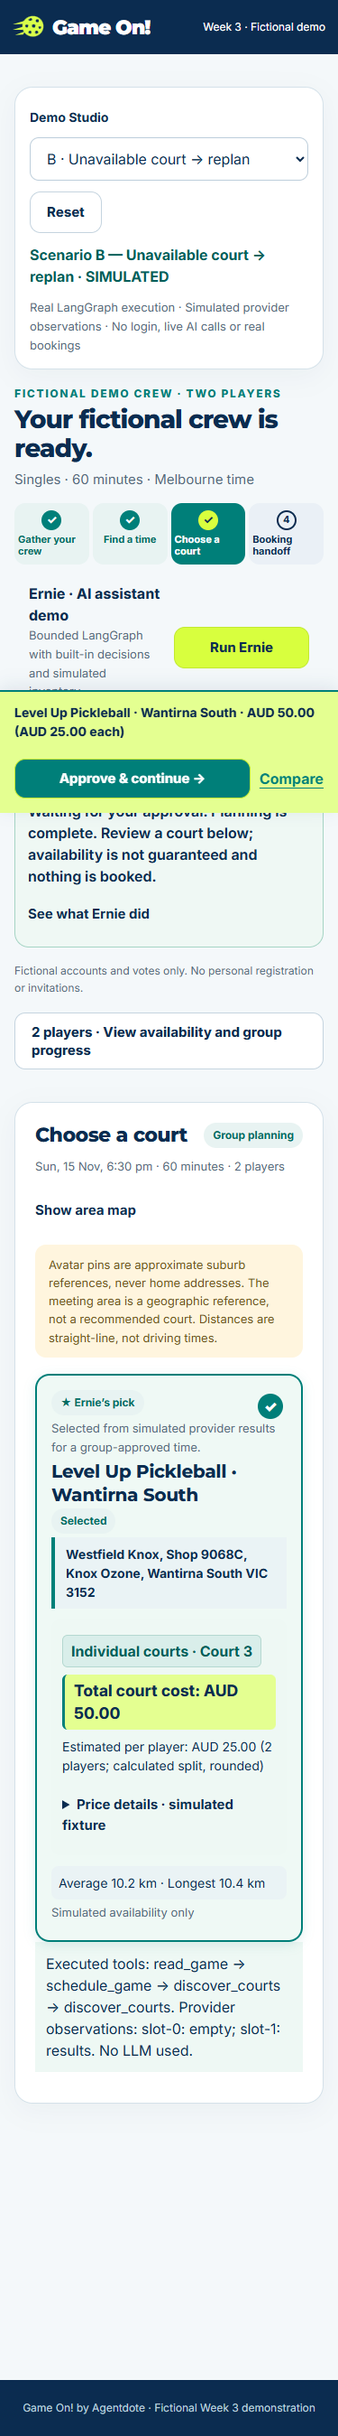
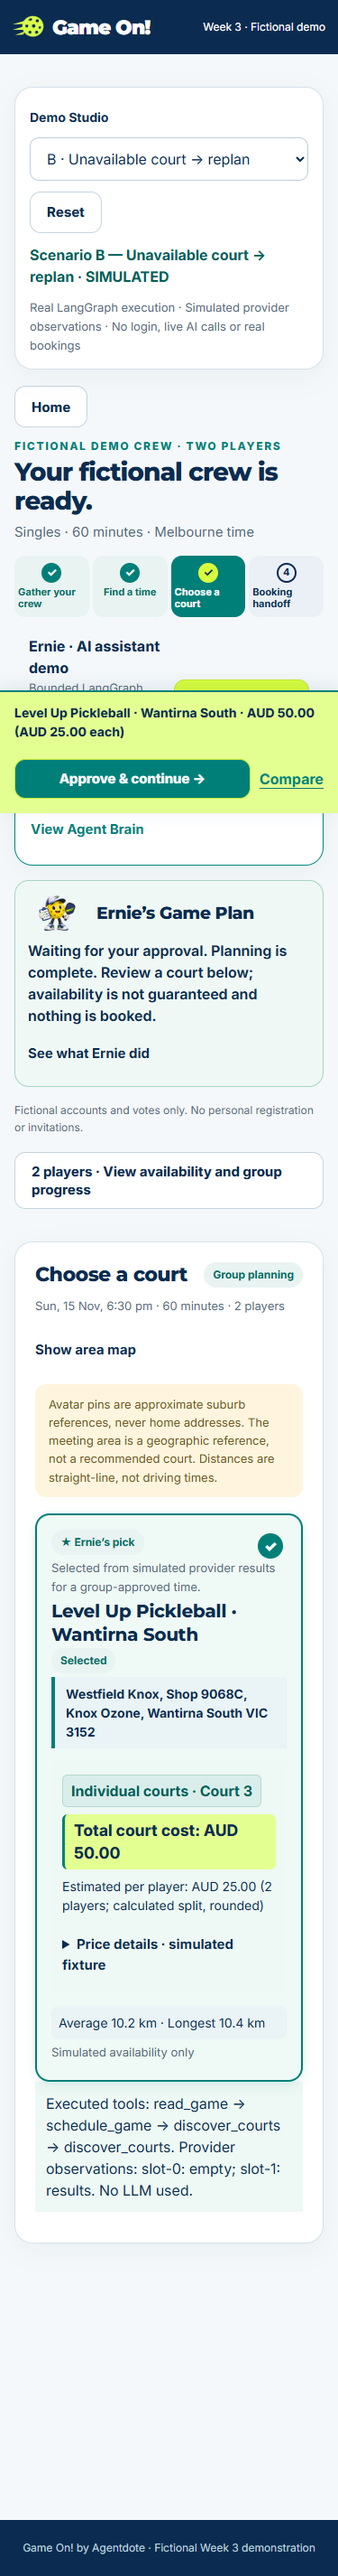
Add trace-driven Agent Brain replay and demo journey

diff --git a/web/demo.js b/web/demo.js
@@ -1,5 +1,5 @@
 const $=s=>document.querySelector(s);
-let currentGame={players:[],min_players:2},currentReady=true,selectedHandoff=null,generation=0,lastResult=null;
+let currentGame={players:[],min_players:2},currentReady=true,selectedHandoff=null,generation=0,lastResult=null,setupSlots=[];
 const Ernie={planAllowed:true,hasRecommendation:false,currentRevision:'A'};
 const labels={A:'Successful recommendation',B:'Unavailable court → replan',C:'No suitable alternatives → human help'};
 const timeLabel=s=>new Intl.DateTimeFormat('en-AU',{timeZone:'Australia/Melbourne',weekday:'short',day:'numeric',month:'short',hour:'numeric',minute:'2-digit'}).format(new Date(s));
@@ -7,21 +7,21 @@ function clearHandoff(){selectedHandoff=null;$('#handoff-panel').hidden=true;}
 function text(id,value){$(id).textContent=value;}
 async function api(path,body){const r=await fetch(path,{method:'POST',headers:{'Content-Type':'application/json'},body:JSON.stringify(body)});if(!r.ok)throw Error('Demo could not complete this action. Reset or try again.');return r.json();}
 function reset(){
- generation++;lastResult=null;clearHandoff();Ernie.hasRecommendation=false;Ernie.currentRevision=$('#scenario').value;
+ AgentBrain.clear();generation++;lastResult=null;clearHandoff();Ernie.hasRecommendation=false;Ernie.currentRevision=$('#scenario').value;
  CourtFlow.barObserver?.disconnect();CourtFlow.bar?.remove();CourtFlow.dialog?.remove();ErnieGamePlan.clear();
  VenueView.dispose($('#group-map'));$('#group-map').replaceChildren();$('#planning-output').replaceChildren();
  $('#run-demo').disabled=false;text('#demo-error','');text('#scenario-label',`Scenario ${$('#scenario').value} — ${labels[$('#scenario').value]} · SIMULATED`);
  text('#game-heading','Your fictional crew is ready.');text('#game-eyebrow','Fictional Demo Crew · Two players');
  currentGame.players=[{id:'alex',name:'Alex',suburb:'Clayton',avatar_id:'ace',is_organiser:true,voted:true},{id:'sam',name:'Sam',suburb:'Springvale',avatar_id:'sky',voted:true}];
  GameOnUI.renderCourt($('#session-court'),currentGame.players,{game:true,ready:true,minPlayers:2});
- text('#rankings','Alex and Sam have both approved two future evening times. Run Ernie to see the exact dates.');
+ text('#rankings',setupSlots.length?setupSlots.map(s=>timeLabel(s.starts_at)+' - both fictional players available').join(' / '):'Alex and Sam have both approved two future evening times. Run Ernie to see the exact dates.');
  text('#player-count','2 fictional players');text('#status','All fictional votes submitted');text('#game-duration-label','Singles · 60 minutes · Melbourne time');
- history.replaceState(null,'','/?step=court');CourtFlow.update();
+ history.replaceState(null,'','/?step=home');CourtFlow.update();
 }
 async function plan(){
- const g=++generation,scenario=$('#scenario').value;$('#run-demo').disabled=true;text('#demo-error','');clearHandoff();Ernie.hasRecommendation=false;CourtFlow.bar?.remove();CourtFlow.dialog?.remove();ErnieGamePlan.start();
+ const g=++generation,scenario=$('#scenario').value;$('#run-demo').disabled=true;text('#demo-error','');clearHandoff();Ernie.hasRecommendation=false;CourtFlow.bar?.remove();CourtFlow.dialog?.remove();AgentBrain.clear();ErnieGamePlan.start();
  try{const result=await api('/api/demo/plan',{scenario});if(g!==generation)return;
- lastResult=result;Ernie.currentRevision=scenario;ErnieGamePlan.finish(result);Ernie.hasRecommendation=!!result.recommendations.length;
+ AgentBrain.load(result);lastResult=result;Ernie.currentRevision=scenario;ErnieGamePlan.finish(result);Ernie.hasRecommendation=!!result.recommendations.length;
  $('#planning-output').replaceChildren();CourtFlow.bar?.remove();CourtFlow.dialog?.remove();
  text('#rankings',result.slots.map(s=>`${timeLabel(s.starts_at)} — both players available`).join(' / '));
  if(result.recommendations.length){
@@ -47,8 +47,14 @@ $('#join-panel').remove();$('#vote-panel').remove();$('.game-share').remove();$(
 $('#planning-entry').innerHTML='<div><strong>Ernie · AI assistant demo</strong><p class="small">Bounded LangGraph with built-in decisions and simulated inventory.</p><p id="demo-error" role="alert"></p></div><button id="run-demo" class="primary" type="button">Run Ernie</button>';
 text('#share-note','Fictional accounts and votes only. No personal registration or invitations.');
 text('#next-step','These are fixed fictional votes. Reset restores the demonstration; no shared data is changed.');
-CourtFlow.init();ErnieGamePlan.init();$('#run-demo').onclick=plan;$('#reset').onclick=reset;$('#scenario').onchange=reset;
+CourtFlow.init();ErnieGamePlan.init();AgentBrain.init();$('#run-demo').onclick=plan;$('#reset').onclick=reset;$('#scenario').onchange=reset;
 $('#handoff-copy').onclick=copyBrief;$('#handoff-calendar').onclick=downloadCalendar;
 $('#handoff-open').onclick=()=>{if(!selectedHandoff)return;const url=selectedHandoff.venue.booking_url||selectedHandoff.venue.website_url;window.open(url,'_blank','noopener,noreferrer');$('#handoff-next').hidden=false;text('#handoff-next-title','Demo handoff complete — nothing booked');text('#handoff-next-description','The official website opens without prefilled court/time. Stop before any hold, reservation or payment during this demonstration.');};
 $('#handoff-next a').onclick=e=>{e.preventDefault();CourtFlow.go('court');};
 reset();
+
+$('#demo-start').onclick=()=>CourtFlow.go('crew');
+$('#demo-home-button').onclick=()=>CourtFlow.go('home');
+$('#demo-next').onclick=()=>CourtFlow.go(CourtFlow.step==='crew'?'time':'court');
+
+fetch('/api/demo/setup').then(r=>{if(!r.ok)throw Error();return r.json();}).then(data=>{setupSlots=data.slots;if(!lastResult)text('#rankings',data.slots.map(s=>timeLabel(s.starts_at)+' - both fictional players available').join(' / '));}).catch(()=>{});

diff --git a/web/agent-brain.js b/web/agent-brain.js
@@ -1,0 +1,44 @@
+/* Presentation of recorded evidence only. No network calls or plan mutations. */
+window.AgentBrain = {
+  init() {
+    const panel=document.createElement('details');panel.id='agent-brain';panel.className='panel agent-brain';panel.hidden=true;
+    panel.innerHTML=`<summary>View Agent Brain</summary><h2>Ernie's Agent Brain</h2>
+      <p><strong>Execution replay</strong> · Deterministic decisions · Simulated provider data</p>
+      <p class="small">Recorded events from the completed LangGraph run. Playback speed is for presentation, not measured execution time. Approval happens separately.</p>
+      <svg viewBox="0 0 540 240" role="img" aria-label="DECIDE to TOOL to OBSERVE, looping back to DECIDE; DECIDE can also FINISH">
+      <defs><marker id="brain-arrow" markerWidth="8" markerHeight="8" refX="7" refY="4" orient="auto"><path d="M0 0 L8 4 L0 8Z" fill="currentColor"/></marker></defs>
+      <g class="brain-links" fill="none" stroke="currentColor" stroke-width="2" marker-end="url(#brain-arrow)"><path d="M160 60H200"/><path d="M340 60H380"/><path d="M450 90V125H90V90"/><path d="M90 90V180H200"/></g>
+      <text x="270" y="148" text-anchor="middle">Observe → Decide: evaluate evidence</text>
+      <g data-node="DECIDE"><rect x="20" y="30" width="140" height="60" rx="12"/><text x="90" y="66">DECIDE</text></g>
+      <g data-node="TOOL"><rect x="200" y="30" width="140" height="60" rx="12"/><text x="270" y="66">TOOL</text></g>
+      <g data-node="OBSERVE"><rect x="380" y="30" width="140" height="60" rx="12"/><text x="450" y="66">OBSERVE</text></g>
+      <g data-node="FINISH"><rect x="200" y="165" width="140" height="60" rx="12"/><text x="270" y="201">FINISH</text></g></svg>
+      <p id="brain-position" class="small"></p><div id="brain-description" role="status" aria-live="polite"></div>
+      <div class="share-actions"><button id="brain-prev" class="secondary">Previous</button><button id="brain-next" class="secondary">Next</button><button id="brain-play" class="primary">Replay</button><button id="brain-reset" class="secondary">Reset replay</button></div>`;
+    document.querySelector('#planning-entry').after(panel);this.panel=panel;
+    const evidence=document.createElement('p');evidence.id='brain-court-evidence';evidence.className='brain-evidence';evidence.hidden=true;
+    document.querySelector('#planning-output').before(evidence);this.evidence=evidence;
+    document.querySelector('#brain-prev').onclick=()=>this.select(this.index-1);
+    document.querySelector('#brain-next').onclick=()=>this.select(this.index+1);
+    document.querySelector('#brain-reset').onclick=()=>this.select(0);
+    document.querySelector('#brain-play').onclick=()=>{if(this.timer){this.stop();return;}this.select(0);this.timer=setInterval(()=>{if(this.index>=this.events.length-1){this.stop();return;}this.select(this.index+1,false);},1400);document.querySelector('#brain-play').textContent='Pause replay';};
+    panel.addEventListener('toggle',()=>{if(!panel.open)this.stop();});
+  },
+  stop(){clearInterval(this.timer);this.timer=null;if(this.panel)document.querySelector('#brain-play').textContent='Replay';},
+  clear(){this.stop();this.events=[];this.panel.hidden=true;this.panel.open=false;this.evidence.hidden=true;this.evidence.textContent='';},
+  load(result){this.clear();this.events=result.graph_events;this.scenario=result.scenario;this.panel.hidden=false;this.select(0);},
+  select(index,stop=true){
+    if(stop)this.stop();this.index=Math.max(0,Math.min(index,this.events.length-1));const e=this.events[this.index];if(!e)return;
+    this.panel.querySelectorAll('[data-node]').forEach(n=>n.classList.toggle('active',n.dataset.node===e.node));
+    document.querySelector('#brain-position').textContent=`Scenario ${this.scenario} · Event ${e.sequence} of ${this.events.length} · Iteration ${e.iteration} · ${e.event_id} · Run ${e.run_id}`;
+    const o=e.observation;let description=`${e.node}${e.tool?' · '+e.tool:''}`;
+    if(e.decision_source)description+=` · ${e.decision_source} decision`;
+    if(e.reason_code)description+=` · ${e.reason_code.replaceAll('_',' ')}`;
+    if(o)description+=` · ${o.status}${o.court_count!==undefined?`: ${o.court_count} simulated courts (${o.slot_id==='slot-0'?'first':'second'} agreed time)`:o.player_count!==undefined?`: ${o.player_count} fictional players, ${o.slot_count} times`:o.eligible_time_count!==undefined?`: ${o.eligible_time_count} eligible times`:''}`;
+    if(e.terminal_outcome)description+=` · ${e.terminal_outcome.action} · ${e.terminal_outcome.outcome.replaceAll('_',' ')}`;
+    document.querySelector('#brain-description').textContent=description;
+    this.evidence.hidden=!o?.slot_id;
+    this.evidence.textContent=o?.slot_id?(o.status==='empty'&&o.slot_id==='slot-0'?'0 available courts for the first agreed time':`${o.court_count??0} available simulated courts for the ${o.slot_id==='slot-0'?'first':'second'} agreed time`)+'. Execution replay · Simulated provider data. The completed plan below is unchanged.':'';
+    document.querySelector('#brain-prev').disabled=this.index===0;document.querySelector('#brain-next').disabled=this.index===this.events.length-1;
+  }
+};

diff --git a/web/index.html b/web/index.html
@@ -1,4 +1,4 @@
-<!doctype html><html lang="en-AU"><head><meta charset="utf-8"><meta name="viewport" content="width=device-width, initial-scale=1"><title>Game On! &middot; Week 3 Demo</title><link rel="stylesheet" href="/styles.css"><link rel="stylesheet" href="/demo.css"><link rel="stylesheet" href="/vendor/maplibre/maplibre-gl.css"><link rel="icon" href="/assets/brand.svg"><script src="/court.js" defer></script><script src="/game-plan.js" defer></script><script src="/court-flow.js" defer></script><script src="/pricing.js" defer></script><script src="/vendor/maplibre/maplibre-gl-csp.js" defer></script><script src="/venue-view.js" defer></script><script src="/demo.js" defer></script></head><body><header class="topbar"><a class="brand" href="/"><img src="/assets/brand.svg" alt="" width="52"><strong>Game On!</strong></a><span>Week 3 &middot; Fictional demo</span></header><main><section class="demo-studio panel"><label for="scenario">Demo Studio</label><select id="scenario"><option value="A">A &middot; Successful recommendation</option><option value="B">B &middot; Unavailable court &rarr; replan</option><option value="C">C &middot; No suitable alternatives &rarr; human help</option></select><button id="reset" type="button" class="secondary">Reset</button><p id="scenario-label" role="status"></p><p class="small">Real LangGraph execution &middot; Simulated provider observations &middot; No login, live AI calls or real bookings</p></section>    <!-- Game workspace. -->
+<!doctype html><html lang="en-AU"><head><meta charset="utf-8"><meta name="viewport" content="width=device-width, initial-scale=1"><title>Game On! &middot; Week 3 Demo</title><link rel="stylesheet" href="/styles.css"><link rel="stylesheet" href="/demo.css"><link rel="stylesheet" href="/vendor/maplibre/maplibre-gl.css"><link rel="icon" href="/assets/brand.svg"><script src="/court.js" defer></script><script src="/game-plan.js" defer></script><script src="/court-flow.js" defer></script><script src="/pricing.js" defer></script><script src="/vendor/maplibre/maplibre-gl-csp.js" defer></script><script src="/venue-view.js" defer></script><script src="/agent-brain.js" defer></script><script src="/demo.js" defer></script></head><body><header class="topbar"><a class="brand" href="/"><img src="/assets/brand.svg" alt="" width="52"><strong>Game On!</strong></a><span>Week 3 &middot; Fictional demo</span></header><main><section class="demo-studio panel"><label for="scenario">Demo Studio</label><select id="scenario"><option value="A">A &middot; Successful recommendation</option><option value="B">B &middot; Unavailable court &rarr; replan</option><option value="C">C &middot; No suitable alternatives &rarr; human help</option></select><button id="reset" type="button" class="secondary">Reset</button><p id="scenario-label" role="status"></p><p class="small">Real LangGraph execution &middot; Simulated provider observations &middot; No login, live AI calls or real bookings</p></section><section id="demo-home" class="panel"><h1>Your crew. Ernie’s plan.</h1><p>Explore a fictional two-player game, agreed times and real bounded LangGraph execution. Choose a scenario above, then follow the journey.</p><button id="demo-start" class="primary">Start demo</button></section><div id="demo-navigation" class="share-actions" hidden><button id="demo-home-button" class="secondary">Home</button><button id="demo-next" class="primary">Continue</button></div>    <!-- Game workspace. -->
     <section id="game-view" class="view">
       <header class="game-header">
         <div>

diff --git a/web/court-flow.js b/web/court-flow.js
@@ -31,12 +31,19 @@ window.CourtFlow = {
     if (!this.side || !currentGame) return;
     const natural = selectedHandoff ? 'handoff' : currentReady ? 'court' : currentGame.players.length >= currentGame.min_players ? 'time' : 'crew';
     const requested = new URLSearchParams(location.search).get('step');
-    let step = ['crew','time','court','handoff'].includes(requested) ? requested : natural;
+    let step = ['home','crew','time','court','handoff'].includes(requested) ? requested : natural;
     if (step === 'handoff' && !selectedHandoff) step = natural;
     if (step === 'court' && !currentReady) step = natural;
-    this.step = step; ErnieGamePlan.show(); document.querySelector('#game-view').dataset.step = step;
+    this.step = step;
+    document.querySelector('#demo-home').hidden=step!=='home';
+    document.querySelector('#game-view').hidden=step==='home';
+    document.querySelector('#demo-navigation').hidden=step==='home';
+    document.querySelector('#demo-next').hidden=!['crew','time'].includes(step);
+    document.querySelector('#demo-next').textContent=step==='crew'?'Continue to agreed times':'Continue to court';
+    if(window.AgentBrain?.panel) AgentBrain.panel.hidden=step!=='court'||!AgentBrain.events?.length;
+    ErnieGamePlan.show(); document.querySelector('#game-view').dataset.step = step;
     document.querySelector('#handoff-panel').hidden = step !== 'handoff' || !selectedHandoff;
-    document.querySelector('#venues-panel').hidden = step === 'handoff' || step === 'time';
+    document.querySelector('#venues-panel').hidden = step !== 'court';
     document.querySelector('#planning-entry').hidden = step !== 'court';
     this.summary.hidden = !['court','handoff'].includes(step);
     this.summary.textContent = `${currentGame.players.length} players · View availability and group progress`;

diff --git a/web/demo.css b/web/demo.css
@@ -1,1 +1,12 @@
 .demo-studio{position:relative;margin:18px 0;padding:16px;display:flex;flex-wrap:wrap;gap:12px;align-items:center}.demo-studio select{flex:1;min-width:220px}.demo-studio p{width:100%;margin:0}#scenario-label{font-weight:700;color:#005e59}.topbar>span{color:white}.game-share,#manual-exploration,#handoff-whatsapp,#handoff-share{display:none}.demo-evidence{padding:12px;background:#eef8f4;overflow-wrap:anywhere}#demo-error{color:#a32121}.demo-help{padding:20px;background:#fff5df;border-radius:12px}#planning-entry{padding:16px;display:flex;justify-content:space-between;align-items:center;gap:12px}#planning-entry button{min-width:150px}@media(max-width:600px){.topbar>span{font-size:12px}.demo-studio select{min-width:0;width:100%;flex-basis:100%}}
+.agent-brain { margin:16px 0; border:1px solid #008780; }
+.agent-brain summary { color:#007e79; font-weight:700; cursor:pointer; }
+.agent-brain svg { width:100%; max-width:680px; display:block; margin:auto; color:#0d3054; }
+.agent-brain svg text { font-size:18px; fill:#0d3054; }
+.agent-brain [data-node] rect { fill:#e9f3f4; stroke:#008780; stroke-width:2; }
+.agent-brain [data-node] text { text-anchor:middle; font-weight:bold; }
+.agent-brain [data-node].active rect { fill:#d4ff32; stroke:#0d3054; stroke-width:4; }
+#brain-position { overflow-wrap:anywhere; }
+#brain-description,.brain-evidence { padding:12px; background:#eff8e0; border-left:4px solid #008780; margin:12px 0; }
+#demo-navigation { margin:12px 0; }
+@media (prefers-reduced-motion:reduce) { .agent-brain * { animation:none!important; transition:none!important; } }

diff --git a/tests/browser_brain.py b/tests/browser_brain.py
@@ -1,0 +1,51 @@
+"""Real graph API + recorded replay, with simulated inventory. No provider actions."""
+import os,sys,json
+from pathlib import Path
+from playwright.sync_api import sync_playwright,expect
+base=sys.argv[1] if len(sys.argv)>1 else 'http://localhost:8020'
+out=Path('docs/screenshots');out.mkdir(exist_ok=True,parents=True)
+with sync_playwright() as p:
+    browser=p.chromium.launch(executable_path=os.environ.get('PLAYWRIGHT_CHROMIUM_EXECUTABLE'),headless=True)
+    for width in (1280,375):
+        context=browser.new_context(viewport={'width':width,'height':900},reduced_motion='reduce')
+        page=context.new_page();calls=[];errors=[]
+        page.on('request',lambda r:calls.append(r.url) if '/api/demo/plan' in r.url or '/api/demo/approve' in r.url else None)
+        page.on('pageerror',lambda e:errors.append(str(e)))
+        page.goto(base)
+        for scenario in 'ABC':
+            page.select_option('#scenario',scenario)
+            expect(page.locator('#demo-home')).to_be_visible()
+            expect(page.locator('#agent-brain')).to_be_hidden()
+            page.locator('#demo-start').click();page.locator('#demo-next').click();page.locator('#demo-next').click()
+            with page.expect_response('**/api/demo/plan',timeout=45000) as response:page.locator('#run-demo').click()
+            result=response.value.json();events=result['graph_events'];count=len(calls)
+            summary=page.locator('#agent-brain summary');summary.focus();page.keyboard.press('Enter')
+            expect(page.locator('#brain-next')).to_be_visible()
+            for index,event in enumerate(events):
+                expect(page.locator('#brain-position')).to_contain_text(f"Event {event['sequence']} of")
+                expect(page.locator('#agent-brain [data-node].active')).to_have_attribute('data-node',event['node'])
+                if event['observation'] and event['observation'].get('slot_id')=='slot-0' and event['observation']['status']=='empty':
+                    expect(page.locator('#brain-court-evidence')).to_contain_text('0 available courts for the first agreed time')
+                    page.locator('#agent-brain').screenshot(path=str(out/f'brain-{scenario}-{width}.png'))
+                if index<len(events)-1:page.locator('#brain-next').click()
+            if scenario=='C':
+                expect(page.locator('#brain-description')).to_contain_text('REQUEST_HELP')
+                expect(page.locator('.court-action-bar')).to_have_count(0)
+            if scenario=='A':page.locator('#agent-brain').screenshot(path=str(out/f'brain-A-{width}.png'))
+            page.locator('#brain-prev').click();expect(page.locator('#brain-position')).to_contain_text(f'Event {len(events)-1} of')
+            page.locator('#brain-reset').click();expect(page.locator('#brain-position')).to_contain_text('Event 1 of')
+            page.locator('#brain-play').click();expect(page.locator('#brain-position')).to_contain_text('Event 2 of',timeout=5000)
+            page.locator('#brain-play').click();assert len(calls)==count
+            if scenario!='C':
+                page.get_by_role('button',name='Approve & continue',exact=False).click()
+                expect(page.locator('#handoff-panel')).to_be_visible(timeout=45000)
+                before=page.locator('#handoff-when').text_content();count=len(calls)
+                page.locator('#change-court').click();page.locator('#brain-reset').click()
+                page.locator('#game-steps [data-step=handoff] button').click()
+                expect(page.locator('#handoff-when')).to_have_text(before);assert len(calls)==count
+            assert page.evaluate('document.documentElement.scrollWidth<=innerWidth')
+            page.locator('#reset').click();expect(page.locator('#agent-brain')).to_be_hidden()
+        assert not errors,errors
+        context.close()
+    browser.close()
+print(json.dumps(dict(passed=True,base=base,widths=[1280,375],scenarios='ABC',replay_network_calls=0,reduced_motion=True)))

diff --git a/demo_runtime.py b/demo_runtime.py
@@ -1,5 +1,6 @@
 """Stateless fictional scenarios. No database, network provider or booking writes."""
 from dataclasses import dataclass
+from graph_events import project_graph_events
 from datetime import datetime, timedelta, timezone
 from zoneinfo import ZoneInfo
 from decimal import Decimal, ROUND_HALF_UP
@@ -57,4 +58,4 @@ def run_demo(scenario):
             d=[distance(Point(latitude=p['location']['latitude'],longitude=p['location']['longitude'],source_url='https://example.invalid/fictional-suburb'),v.location) for p in players]
             pricing=dict(category='Main Courts' if v.id==VENUES[0] else 'Individual courts',court_name='Court 3',currency='AUD',total_minor=total,estimated_per_player_minor=int((Decimal(total)/2).quantize(Decimal('1'),rounding=ROUND_HALF_UP)),participant_count=2,observed_at=datetime.now(timezone.utc).isoformat(),stale=False,refresh_due=False,refresh_status='simulated')
             recommendations.append(dict(venue_id=v.id,name=v.name,suburb=v.suburb,venue=v.model_dump(mode='json'),pricing=pricing,starts_at=slot.starts_at.isoformat(),ends_at=slot.ends_at.isoformat(),duration_minutes=60,player_count=2,average_distance_km=round(sum(d)/2,1),longest_distance_km=round(max(d),1),selection=dict(scenario=scenario,day=store.day,slot_id=slot.id,venue_id=v.id)))
-    return dict(scenario=scenario,label=LABELS[scenario],simulated=True,llm_used=result.llm_used,run_id=result.run_id,revision=scenario,planning_state=completion_state(result),activity_timeline=project_activity(result),stop_reason=result.stop_reason,executed_tools=[t.name for t in result.trace if t.phase=='tool'],observed_slots=[dict(slot_id=e.payload.slot_id,status=e.payload.status,source='simulated_provider') for e in result.observations if isinstance(e.payload,DiscoveryObservation)],recommendations=recommendations,players=players,slots=[dict(id=s.id,starts_at=s.starts_at.isoformat(),ends_at=s.ends_at.isoformat()) for s in game.slots])
+    return dict(scenario=scenario,label=LABELS[scenario],simulated=True,llm_used=result.llm_used,run_id=result.run_id,revision=scenario,planning_state=completion_state(result),activity_timeline=project_activity(result),graph_events=project_graph_events(result),stop_reason=result.stop_reason,executed_tools=[t.name for t in result.trace if t.phase=='tool'],observed_slots=[dict(slot_id=e.payload.slot_id,status=e.payload.status,source='simulated_provider') for e in result.observations if isinstance(e.payload,DiscoveryObservation)],recommendations=recommendations,players=players,slots=[dict(id=s.id,starts_at=s.starts_at.isoformat(),ends_at=s.ends_at.isoformat()) for s in game.slots])

diff --git a/graph_events.py b/graph_events.py
@@ -1,0 +1,30 @@
+"""Public replay projection: one event per real trace entry, no free-form reasoning."""
+from gameon.erne.contracts import Snapshot, ScheduleObservation, DiscoveryObservation, ToolFailure
+
+NODES = {'decision': 'DECIDE', 'tool': 'TOOL', 'observation': 'OBSERVE', 'final': 'FINISH'}
+TOOLS = {'read_game', 'schedule_game', 'discover_courts'}
+
+def project_graph_events(result):
+    evidence = {e.evidence_id: e for e in result.observations}
+    events = []
+    for sequence, trace in enumerate(result.trace, 1):
+        observation = None
+        item = evidence.get(trace.event_id)
+        if item is not None:
+            payload = item.payload
+            if isinstance(payload, Snapshot):
+                observation = dict(status='success', player_count=len(payload.players), slot_count=len(payload.slots))
+            elif isinstance(payload, ScheduleObservation):
+                observation = dict(status=payload.status, eligible_time_count=len(payload.matches))
+            elif isinstance(payload, DiscoveryObservation):
+                observation = dict(status=payload.status, slot_id=payload.slot_id, court_count=len(payload.candidates))
+            elif isinstance(payload, ToolFailure):
+                observation = dict(status='error', code=payload.code)
+        events.append(dict(run_id=result.run_id, event_id=trace.event_id, sequence=sequence,
+            node=NODES[trace.phase], tool=trace.name if trace.name in TOOLS else None,
+            decision_source=trace.decision_source,
+            reason_code=trace.selection.reason_code if trace.selection else None,
+            observation=observation, iteration=trace.iteration,
+            simulated=trace.simulated, fictional_demo=True,
+            terminal_outcome=dict(action=result.action, outcome=result.outcome) if trace.phase=='final' else None))
+    return events

diff --git a/tests/test_graph_events.py b/tests/test_graph_events.py
@@ -1,0 +1,27 @@
+import unittest
+from demo_runtime import DemoStore, SimulatedInventory, fixture_day
+from gameon.erne.graph import run_erne
+from gameon.erne.contracts import RunRequest
+from graph_events import project_graph_events, NODES
+
+class GraphEventsTests(unittest.TestCase):
+    def test_real_trace_projection(self):
+        for scenario in 'ABC':
+            result=run_erne(RunRequest(game_id='demo-game'),DemoStore(fixture_day()),discovery=SimulatedInventory(scenario))
+            events=project_graph_events(result)
+            self.assertEqual(len(events),len(result.trace))
+            for i,(event,trace) in enumerate(zip(events,result.trace),1):
+                self.assertEqual((event['event_id'],event['sequence'],event['iteration'],event['node']),
+                    (trace.event_id,i,trace.iteration,NODES[trace.phase]))
+                self.assertEqual(event['simulated'],trace.simulated)
+                self.assertEqual(event['run_id'],result.run_id)
+                self.assertNotIn('summary',event);self.assertNotIn('explanation',event)
+                self.assertNotIn('offered_options',event)
+            discovery=[e for e in events if e['node']=='OBSERVE' and e['tool']=='discover_courts']
+            self.assertEqual([e['observation']['status'] for e in discovery],{'A':['results'],'B':['empty','results'],'C':['empty','empty']}[scenario])
+            if scenario=='B':
+                self.assertEqual(sum(e['node']=='TOOL' and e['tool']=='discover_courts' for e in events),2)
+                self.assertTrue(any(e['reason_code']=='alternative_slot' for e in events))
+            if scenario=='C':self.assertEqual(events[-1]['terminal_outcome']['action'],'REQUEST_HELP')
+
+if __name__=='__main__':unittest.main()

diff --git a/tests/browser_smoke.py b/tests/browser_smoke.py
@@ -15,6 +15,7 @@ with sync_playwright() as p:
    page.select_option('#scenario',scenario)
    expect(page.locator('#handoff-panel')).to_be_hidden()
    expect(page.locator('.court-action-bar')).to_have_count(0)
+   page.locator('#demo-start').click();page.locator('#demo-next').click();page.locator('#demo-next').click()
    with page.expect_response('**/api/demo/plan',timeout=45000) as response:page.locator('#run-demo').click()
    r=response.value.json();assert r['scenario']==scenario and r['stop_reason']=='completed'
    expect(page.locator('#ernie-game-plan')).to_have_attribute('data-run-id',r['run_id'])
@@ -45,6 +46,7 @@ with sync_playwright() as p:
    page.screenshot(path=str(out/f'{scenario}-{width}.png'),full_page=True)
   page.locator('#reset').click();expect(page.locator('.court-action-bar')).to_have_count(0)
   expect(page.locator('#ernie-game-plan')).to_be_hidden()
+  page.locator('#demo-start').click();page.locator('#demo-next').click();page.locator('#demo-next').click()
   with page.expect_response('**/api/demo/plan',timeout=45000):
    page.locator('#run-demo').click();page.locator('#reset').click()
   expect(page.locator('#ernie-game-plan')).to_be_hidden()

diff --git a/app.py b/app.py
@@ -6,7 +6,7 @@ from threading import BoundedSemaphore
 from fastapi import FastAPI, HTTPException, Request
 from fastapi.staticfiles import StaticFiles
 from pydantic import BaseModel, ConfigDict
-from demo_runtime import run_demo, fixture_day
+from demo_runtime import run_demo, fixture_day, DemoStore
 
 app=FastAPI(title='Game On Week 3 fictional demo',docs_url=None,redoc_url=None,openapi_url=None)
 capacity=BoundedSemaphore(2)
@@ -43,6 +43,11 @@ def health(): return dict(status='ok',demo=True,database='none',live_provider=Fa
 
 @app.get('/api/map-config')
 def map_config(): return dict(enabled=True,style_url='https://tiles.openfreemap.org/styles/liberty',resource_origins=['https://tiles.openfreemap.org'])
+
+@app.get('/api/demo/setup')
+def setup():
+    game,_=DemoStore(fixture_day()).load_game_session('demo-game')
+    return dict(slots=[dict(starts_at=s.starts_at.isoformat(),ends_at=s.ends_at.isoformat()) for s in game.slots])
 
 @app.post('/api/demo/plan')
 def plan(body: Plan): return execute(body.scenario)

diff --git a/README.md b/README.md
@@ -10,8 +10,8 @@ Verified without login on 6 November 2026 (Australia/Sydney). Separate Vercel pr
 
 No account, database setup or API key is required.
 
-1. Select a scenario in **Demo Studio** and click **Run Ernie**.
-2. Open **See what Ernie did** to inspect the completed execution record.
+1. Select a scenario in **Demo Studio** then **Start demo**. Follow **Crew ? Time ? Court** and click **Run Ernie**.
+2. Open **View Agent Brain** to step through the actual completed trace with Previous, Next, Replay and Reset replay. **Execution replay** is not live streaming. In B, inspect the first empty discovery and the second discovery for the next agreed time.
 3. Compare the court cards/map, then **Approve & continue** to the fictional handoff.
 4. Copy a privacy-safe brief to a personal assistant or download a tentative calendar event.
 5. Switch scenarios or **Reset** to start over. Each visitor's browser state is independent.
@@ -64,9 +64,10 @@ python -m venv .venv
 python -m pip install -r requirements-dev.txt
 python app.py
 # Open http://localhost:8020
-python -m unittest discover -s tests -p test_demo.py
+python -m unittest discover -s tests -p 'test_*.py'
 python -m playwright install chromium
 python tests/browser_smoke.py http://localhost:8020 --live-map
+python tests/browser_brain.py http://localhost:8020
 ```
 
 For an already installed Chromium, set `PLAYWRIGHT_CHROMIUM_EXECUTABLE` to its executable path. Setting `VERCEL=1` when running the unit suite exercises the dedicated serverless subprocess launcher. The browser suite runs A/B/C/B/A and Reset at 1280/375 pixels, uses the real HTTP application and graph, and verifies comparison, approval, clipboard privacy, calendar and overflow. It never performs provider booking actions.
@@ -78,3 +79,14 @@ Nothing is reserved, held, paid or emailed. Opening an official website is ordin
 The prior public `main` is preserved as tag **rollback-before-week3-demo**, commit `bb83d8c9651774f146e9312496b3010fa46a93c8`. No private development Git history was merged. To roll back, restore that tagged tree in a new commit on this public repository, test, push and redeploy only the demo project. Do not force-push or target the separate private application project.
 
 Deployment target: **game-on-w3-demo**, repository **Game-on-LIVE**, branch **main**. No environment secrets are required. No new paid services or plan upgrade. Vercel/free tile usage remains subject to their quotas; actual bills are not measured by this repository.
+
+## Agent Brain evidence replay
+
+`graph_events.py` projects exactly one safe event per actual trace entry, preserving order, event/run IDs, iteration, decision source and simulation provenance. Only typed observation counts/status and allowlisted decision reason codes are exposed; free-form reasoning, prompts and internal errors are excluded. FINISH reports the actual terminal action. The SVG highlights the recorded node, with an explicit Observe-to-Decide loop. Replay never calls an API, changes approval or replaces the completed recommendation. Controls work with the keyboard; no automatic playback starts on load and no motion effects are required.
+
+Scenario B's first empty observation synchronises a Court evidence notice: **0 available courts for the first agreed time** (simulated). The completed recommendation remains scoped to the successful second time. Scenario C ends in REQUEST_HELP and cannot be approved. Scenario reset clears all replay state. Approval is a separate user action outside the graph and is not fabricated as a graph event.
+
+![B: actual empty observation](docs/screenshots/brain-B-1280.png)
+![B: mobile replay](docs/screenshots/brain-B-375.png)
+
+Rollback for this visualisation: restore public commit `bbc00e5cc2237970e3089583140be50014b943b1` in a new commit and deploy only `game-on-w3-demo`. This retains the initial fictional demo.
